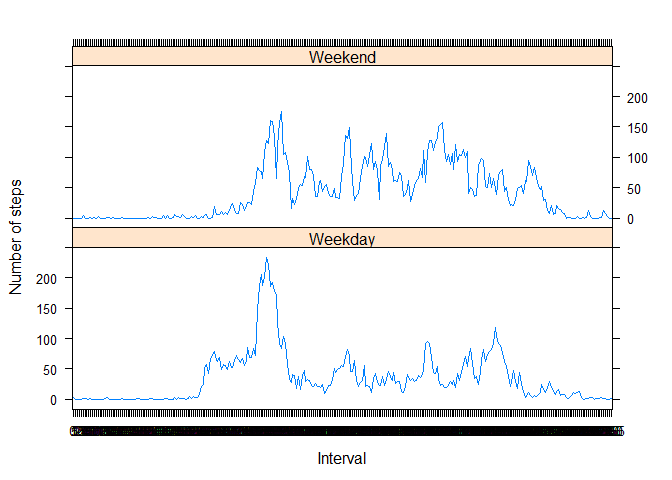
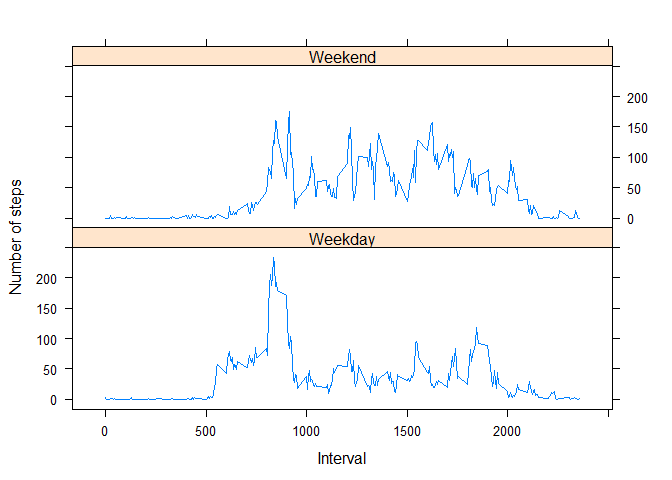
Updated completed PA1_template
update completed PA1_template

diff --git a/PA1_template.html b/PA1_template.html
@@ -182,9 +182,10 @@ da$daylevel &lt;- factor(da$daylevel)</code></pre>
 <h3>2. Make a panel plot containing a time series plot (i.e. type = “l” ) of the 5-minute interval (x-axis) and the average number of steps taken, averaged across all weekday days or weekend days (y-axis)</h3>
 <pre class="r"><code>dailysteps&lt;-aggregate(steps ~ interval + daylevel, data = da, FUN=&quot;mean&quot;)
 names(dailysteps) &lt;- c(&quot;interval&quot;, &quot;daylevel&quot;, &quot;steps&quot;)
+dailysteps$interval=as.numeric(as.character(dailysteps$interval))
 library(&quot;lattice&quot;)
 xyplot(steps ~ interval | daylevel, dailysteps, type = &quot;l&quot;, layout = c(1, 2), xlab = &quot;Interval&quot;, ylab = &quot;Number of steps&quot;)</code></pre>
[2 lines of base64/hex data omitted]
 </div>
 </div>
 

diff --git a/PA1_template.md b/PA1_template.md
@@ -195,6 +195,7 @@ da$daylevel <- factor(da$daylevel)
 ```r
 dailysteps<-aggregate(steps ~ interval + daylevel, data = da, FUN="mean")
 names(dailysteps) <- c("interval", "daylevel", "steps")
+dailysteps$interval=as.numeric(as.character(dailysteps$interval))
 library("lattice")
 xyplot(steps ~ interval | daylevel, dailysteps, type = "l", layout = c(1, 2), xlab = "Interval", ylab = "Number of steps")
 ```
